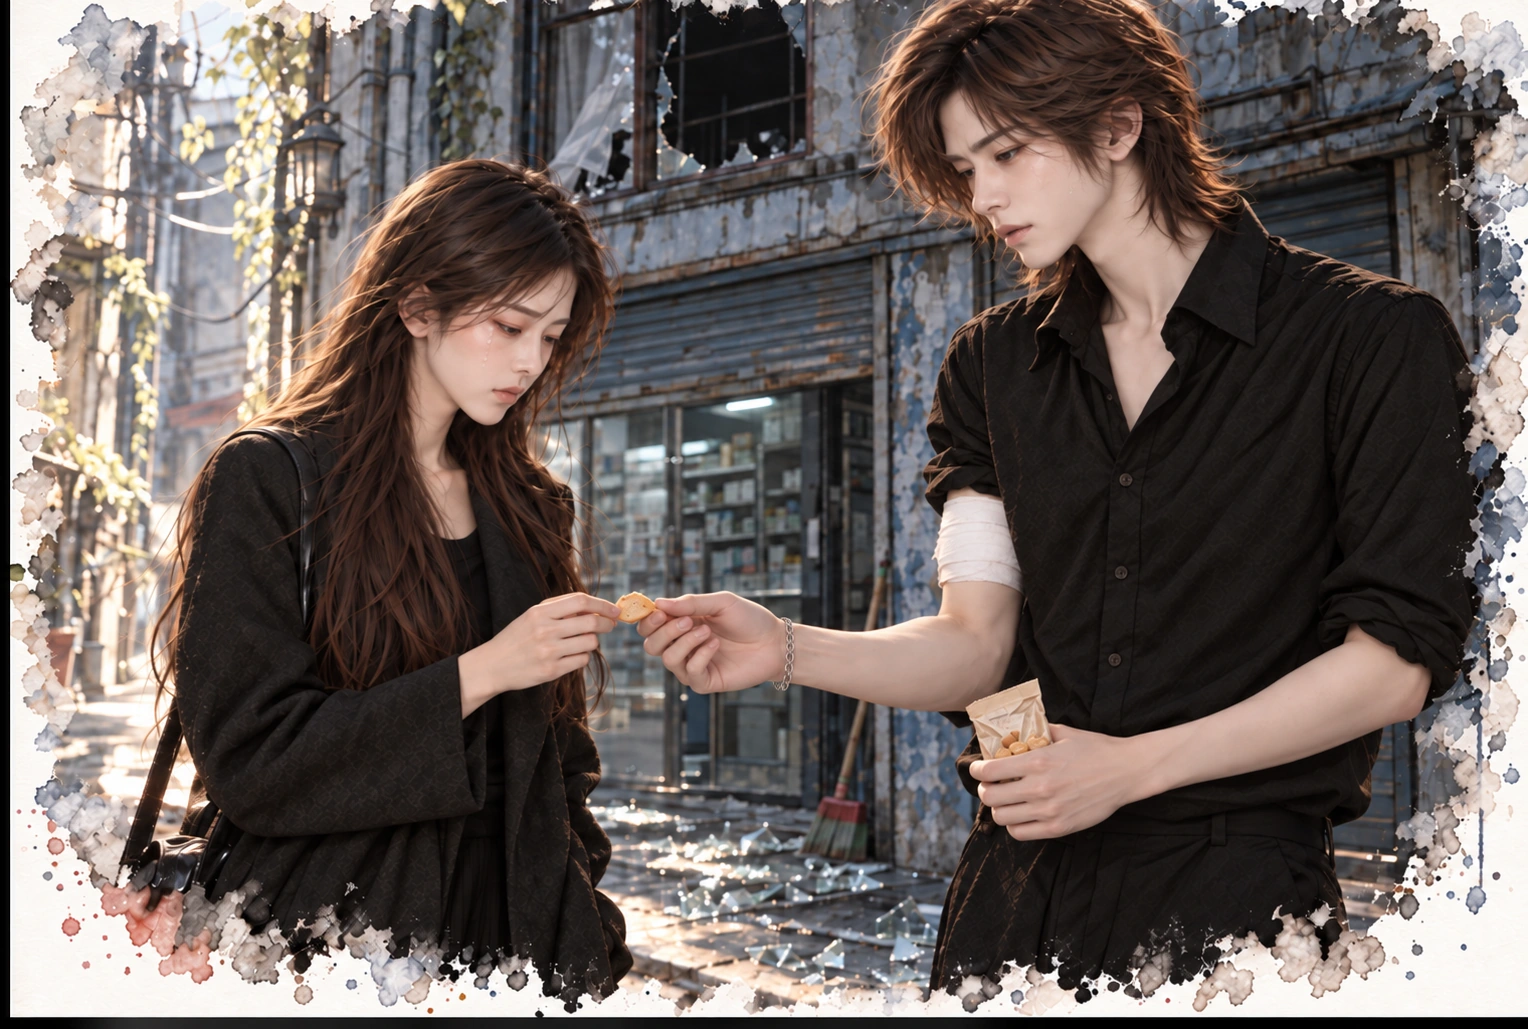
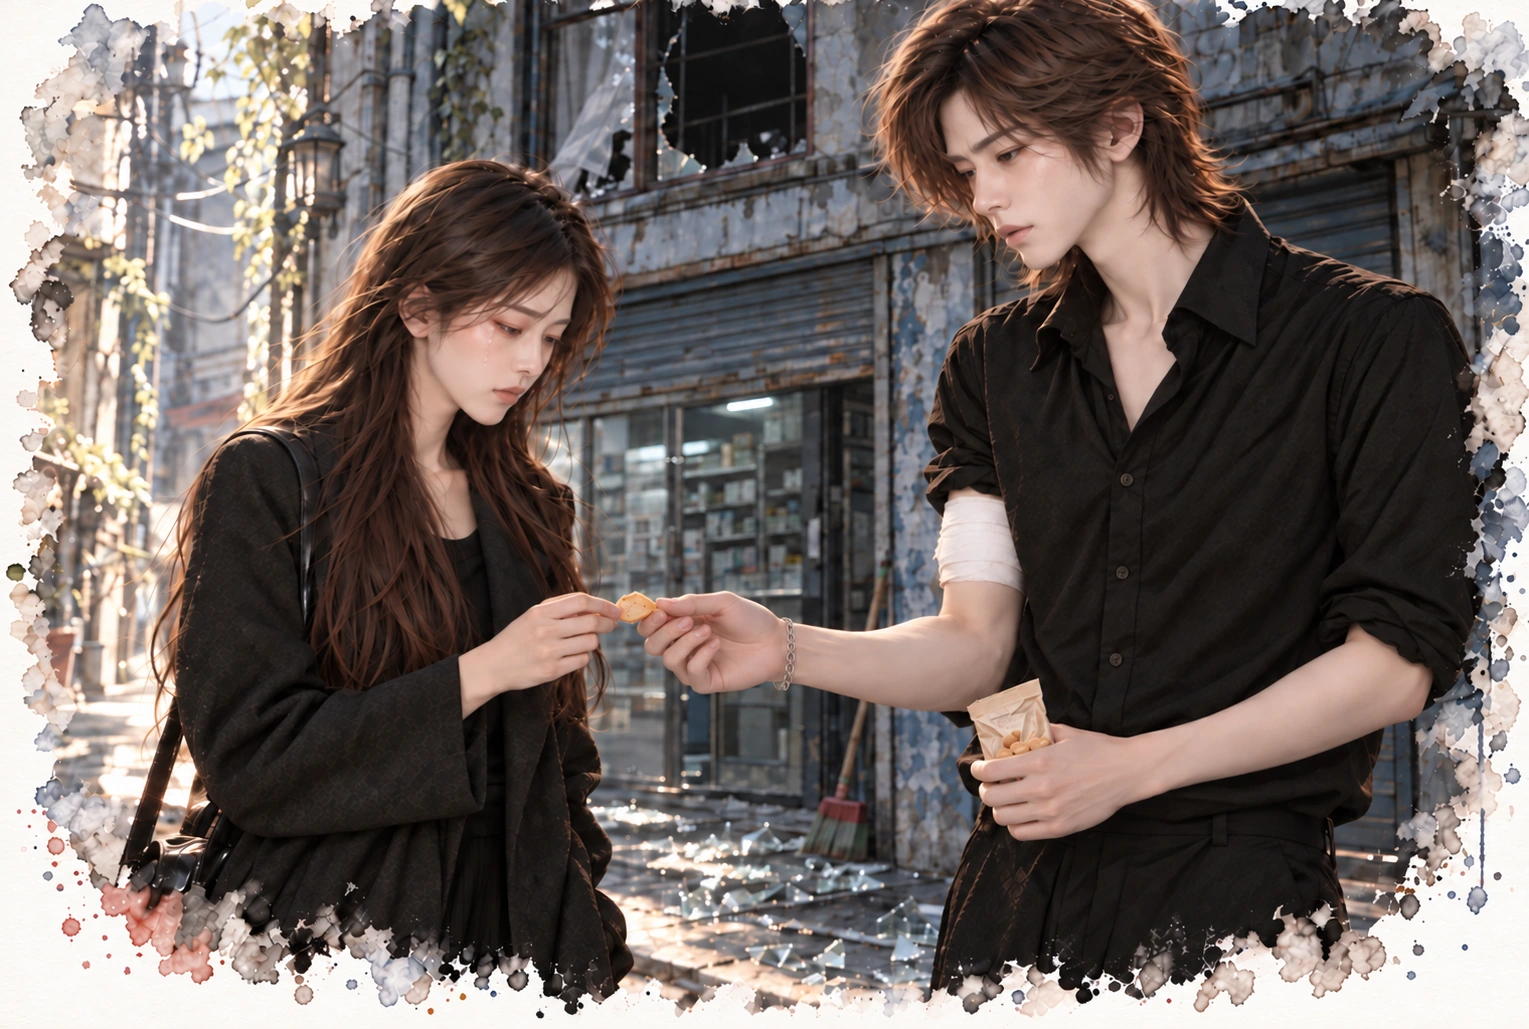
Remove black perimeter from chapter 4 Lin Tang illustration

diff --git a/novels/no-signboard-bar/chapter-04.html b/novels/no-signboard-bar/chapter-04.html
@@ -111,7 +111,7 @@
 <p>我把手機放回口袋。</p>
 <p>不回。讓他們等。我剛剛也等了，等一個人吸回一口氣。</p>
 <hr>
-<div class="pov-opening"><h2 class="pov-title" id="pov-4"><span>敘事視角</span>林棠</h2><a class="pov-art" href="../../assets/novels/no-signboard-bar/chapter-04-lin-tang.webp" target="_blank" rel="noopener" aria-label="開啟林棠插圖大圖"><img src="../../assets/novels/no-signboard-bar/chapter-04-lin-tang.webp" alt="林棠在清晨的巷子裡接過江澈分給她的半片餅乾。" width="1528" height="1029" loading="lazy" decoding="async"></a><div class="pov-intro"><p>我沒有去九點的通告。</p>
+<div class="pov-opening"><h2 class="pov-title" id="pov-4"><span>敘事視角</span>林棠</h2><a class="pov-art" href="../../assets/novels/no-signboard-bar/chapter-04-lin-tang.webp?v=2" target="_blank" rel="noopener" aria-label="開啟林棠插圖大圖"><img src="../../assets/novels/no-signboard-bar/chapter-04-lin-tang.webp?v=2" alt="林棠在清晨的巷子裡接過江澈分給她的半片餅乾。" width="1529" height="1029" loading="lazy" decoding="async"></a><div class="pov-intro"><p>我沒有去九點的通告。</p>
 <p>七點半，經紀人傳訊息來：「妳常去那條巷子昨晚出事了，新聞有報，好像是搶劫開槍。妳最近不要去那邊，被拍到很麻煩。」</p>
 <p>我換好衣服，抓了沙發扶手上那件外套，叫了車。</p></div></div>
 <p>巷口拉著一段黃色的封鎖線，已經撤掉一半了。一台警車停在外面，兩個警察在跟里長講話。</p>
